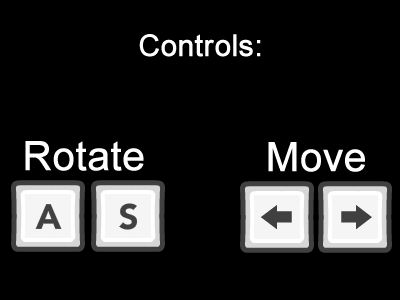
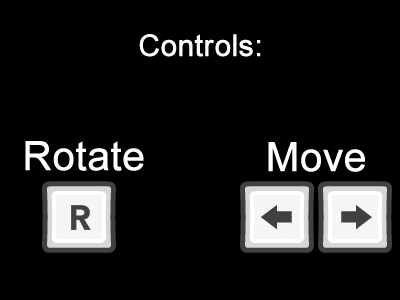
Update instructions and remove HUD buttons

Changed region(s): [[0.03, 0.6, 0.42, 0.87]]

diff --git a/tetris/game.js b/tetris/game.js
@@ -74,7 +74,7 @@ Game.PlayGame.prototype = {
 
 		KEYLEFT = this.game.input.keyboard.addKey(Phaser.Keyboard.LEFT);
 
-		KEYUP = this.game.input.keyboard.addKey(Phaser.Keyboard.UP);
+		KEYUP = this.game.input.keyboard.addKey(Phaser.Keyboard.R);
 
 		KEYDOWN = this.game.input.keyboard.addKey(Phaser.Keyboard.DOWN);
 
@@ -86,22 +86,6 @@ Game.PlayGame.prototype = {
 
 		this.scoretextmain = this.add.text(344,370," "+score+" ",{ font: "15px Arial", fill: "#fff", align: "center" })
 
-
-
-		this.resetbutton = this.add.sprite(320,520,'reset');
-
-		this.pausebutton = this.add.sprite(320,460,'pause');
-
-		this.pausebutton.inputEnabled = true;
-
-		this.resetbutton.inputEnabled = true;
-
-		this.pausebutton.events.onInputDown.add(this.pausebuttondown,this.pausebutton);
-
-		this.resetbutton.events.onInputDown.add(this.resetbuttondown,this.resetbutton);
-
-
-
 		oldsquares.length = 0;
 
 		squaresinrow.length = 0;
@@ -112,36 +96,6 @@ Game.PlayGame.prototype = {
 			GlobalInfo.data.markGameStarted();
 		}
 	},
-
-	pausebuttondown : function(){
-
-		if(this.game.paused==false)
-
-		{
-
-			this.game.paused = true;
-
-		}
-
-		else
-
-		{ this.game.paused = false;
-
-		}
-
-	},
-
-
-
-	resetbuttondown : function(){
-
-		this.game.state.start('MainMenu');
-
-	},
-
-
-
-
 
 	chooseblock : function(){
 
